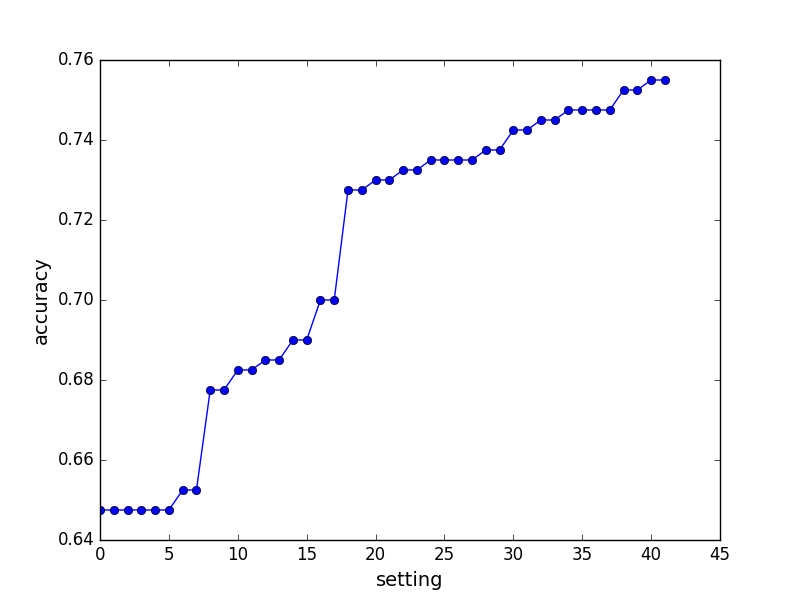
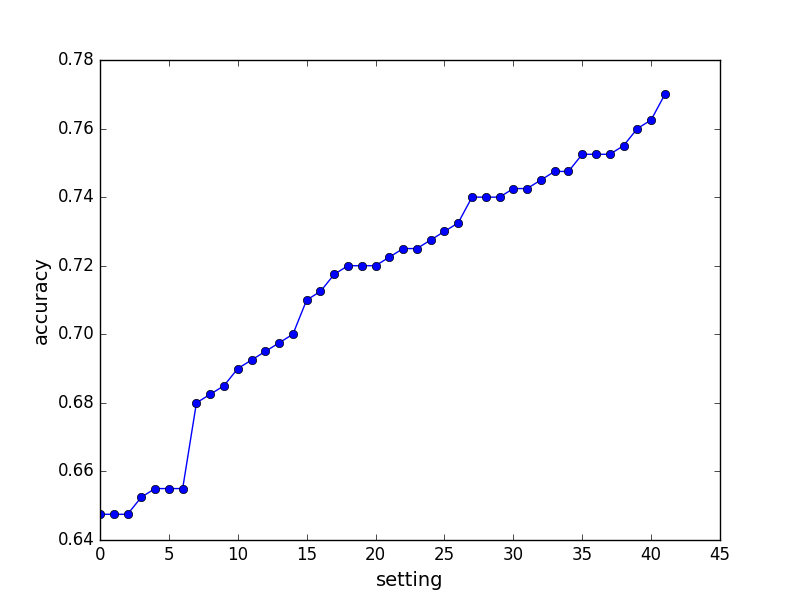
Fixed Vectorized

diff --git a/a2/a2.py b/a2/a2.py
@@ -253,33 +253,37 @@ def vectorize(tokens_list, feature_fns, min_freq, vocab=None):
     >>> sorted(vocab.items(), key=lambda x: x[1])
     [('token=great', 0), ('token=horrible', 1), ('token=isn', 2), ('token=movie', 3), ('token=t', 4), ('token=this', 5)]
     """
-    pruned_tokens_list = []
-    doc_token_counter = defaultdict(lambda: 0)
+    doc_feature_counter = defaultdict(lambda: 0)
     features_list = []
     global_feature_list = []
-    index = []
+    prune_features_list = []
 
     data = []
     row = []
     col = []
+
     for tokens in chain(tokens_list):
-        for token in set(tokens):
-            doc_token_counter[token] += 1
-    for tokens in chain(tokens_list):
-        prune_tokens = []
-        for token in tokens:
-            if doc_token_counter[token] >= min_freq:
-                prune_tokens.append(token)
-        features = featurize(prune_tokens, feature_fns)
-        global_feature_list += features
-        features_list.append(features)
+        features_list.append(featurize(tokens, feature_fns))
+
+    for features in features_list:
+        for feature in features:
+            doc_feature_counter[feature[0]] += 1
+
+    for features in chain(features_list):
+        prune_feature = []
+        for feature in features:
+            if doc_feature_counter[feature[0]] >= min_freq:
+                prune_feature.append(feature)
+        prune_features_list.append(prune_feature)
+        global_feature_list += prune_feature
+
     if vocab is None:
         vocab = defaultdict(lambda: 0)
         for feature in sorted(global_feature_list, key = lambda feature_with_count: feature_with_count[0]):
             vocab.setdefault(feature[0], len(vocab))
     col_size = len(vocab)
     row_no = 0
-    for features in chain(features_list):
+    for features in chain(prune_features_list):
         for feature in chain(features):
             data.append(feature[1])
             row.append(row_no)
@@ -381,7 +385,7 @@ def eval_all_combinations(docs, labels, punct_vals,
                 result['accuracy'] = accuracy
                 result['min_freq'] = min_freq
                 results.append(result)
-    #print(sorted(results, key=lambda result: result['accuracy'], reverse=True))
+   # print(sorted(results, key=lambda result: result['accuracy'], reverse=True))
     return sorted(results, key=lambda result: result['accuracy'], reverse=True)
 
 
